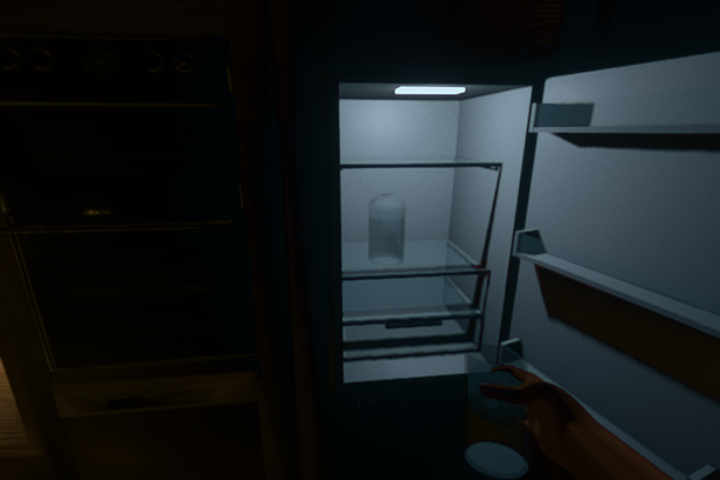
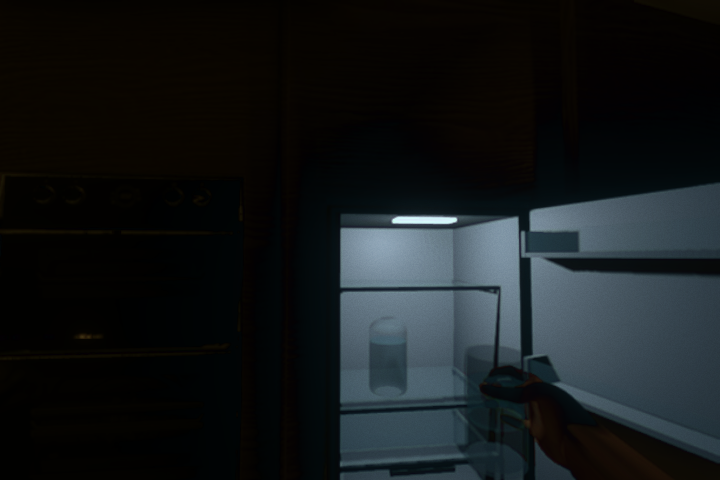
Record verified 0.11 deployment, final framing and hosted captures [skip ci]

diff --git a/docs/REVIEW_11.md b/docs/REVIEW_11.md
@@ -14,9 +14,9 @@ The hand, glass and audio provenance, licenses and preparation are documented in
 
 ## Continuation details
 
-`SceneQuality` applies the initial graphics budget before the first probe capture and follows Graphics changes. Local clustered shadow resolution is governed by the shared atlas, so per-lamp shadow-resolution settings should not be presented as the source of those savings. Directional moon-map resolution is reduced separately on lower presets. High detail can be restored without losing the original light settings.
+`SceneQuality` applies the initial graphics budget before the first probe capture; the backing-buffer budget is also installed when the graphics device is created, before model/hand downloads complete. It follows Graphics changes. Local clustered shadow resolution is governed by the shared atlas, so per-lamp shadow-resolution settings should not be presented as the source of those savings. Directional moon-map resolution is reduced separately on lower presets. High detail can be restored without losing the original light settings.
 
-`DrinkSequence` owns the camera and movement until completion. The main update skips `Player.update` while it runs; start clears keys/velocity and disables interactions synchronously, preventing rapid E/clicks from closing the door mid-reach. Pointer unlock, graphics/pause and document hiding freeze time and stop only the drinking voices. Resume schedules remaining recording offsets without repaying paused time. Reduced motion removes head movement and swallow tremor. Player position and viewing direction are restored at handoff.
+`DrinkSequence` owns the camera and movement until completion. The main update skips `Player.update` while it runs; start clears keys/velocity and disables interactions synchronously, preventing rapid E/clicks from closing the door mid-reach. Pointer unlock, graphics/pause and document hiding freeze time and stop only the drinking voices. Resume schedules remaining recording offsets without repaying paused time. A smooth head lift frames the glass below the eye during the reach and return, including direct or slightly lower initial gaze; the original orientation returns after the hand withdraws. Reduced motion keeps the camera stationary and cuts directly to a supported glass in hand, then directly back to the shelf after sipping. It omits the long reach and swallow tremor. Player position and viewing direction are restored at handoff.
 
 The downloaded Open/Close clip is evaluated with PlayCanvas `AnimEvaluator`/`DefaultAnimBinder`; no additional animation component system is needed. Its palm contact rotates rigidly with the glass. Public `MeshInstance.isVisibleFunc` callbacks keep the hand and carried glass/water out of probe cameras while retaining the real World-layer lights. A custom camera layer alone is insufficient because `captureCube` copies the primary camera layers. Returned shelf glass participates in ordinary rendering again. Refrigerator mesh extraction now compacts referenced vertex streams instead of copying every source vertex into each subset.
 
@@ -24,7 +24,7 @@ The downloaded Open/Close clip is evaluated with PlayCanvas `AnimEvaluator`/`Def
 
 ## Validation and publication
 
-All **88 Node regressions** pass across twelve check files, and all eight room destinations remain reachable. Production build passes. The review workflow now includes scene/rain quality and drinking regressions alongside the previous interaction, lighting, limiter, waking, fridge, coffee, switch and flashlight checks.
+All **90 Node regressions** pass across twelve check files, and all eight room destinations remain reachable. Production build passes. The review workflow now includes scene/rain quality and drinking regressions alongside the previous interaction, lighting, limiter, waking, fridge, coffee, switch and flashlight checks.
 
 Native graphics UI checks passed presets/effects, fresh default 60 FPS and FPS counter, explicit Unlimited/caps, persistence after reload, focus, pointer capture and the 320×480 layout. The real engine tick/cadence check compares accepted callbacks with independently counted RAF supply while temporarily stubbing update/render work. It validates the limiter without presenting software rendering as a GPU performance result.
 
@@ -48,4 +48,8 @@ DRINK_QUALITY=2 python3 tools/check-drink-browser.py http://127.0.0.1:4175/ work
 
 ## Publication
 
-Publication provenance is recorded after deployment verification.
+Published revision: `259e12e6ade8d6ad97fcd6af81be4d2e95e453a4`. [Deployment run 40109659758](https://github.com/starfox22/horror/actions/runs/40109659758) passed. Play **https://starfox22.github.io/horror/codex/?v=0.11-final**. Live build-info matches that preview commit and the unchanged original `main` revision `7b93acb3f34085e078ad32f0c2baae415341e486`. Both site roots load; the hosted hand SHA256 matches the final local asset, and both recordings and the hand license return HTTP 200.
+
+The actual hosted HTTPS WebGPU check passed native E opening and second-E drinking, decoded recorded audio, default 60 FPS cap, visible hand/glass, pause/resume, hidden-tab freeze, mostly empty glass return, restored walking control and native refrigerator closing. No unexpected page, console or HTTP failures occurred. [Hosted result](review-11/validation.json) records the check. A session proxy CA public-key pin was used for the cloud browser; general certificate-error bypass was not enabled.
+
+The `?v=` query refreshes cached HTML; it does not preserve an older build. Documentation-only follow-ups skip CI and do not change this deployed game revision. `main` was neither committed nor pushed.

diff --git a/docs/PREVIEW_DEPLOYMENT.md b/docs/PREVIEW_DEPLOYMENT.md
@@ -10,18 +10,18 @@ Ongoing Codex development and review branch: `codex-review` (Git branch names ca
 | `/horror/codex/` | Codex environment and lighting pass |
 | `/horror/codex/build-info.json` | Full original and preview commit SHAs |
 
-The published preview is **https://starfox22.github.io/horror/codex/**. [Workflow run 40103998454](https://github.com/starfox22/horror/actions/runs/40103998454) deployed build 0.10 successfully. No changes to `main` or repository visibility are required by this workflow. Apartment assets are already committed; neither build regenerates them or downloads the source model.
+The published preview is **https://starfox22.github.io/horror/codex/**. [Workflow run 40109659758](https://github.com/starfox22/horror/actions/runs/40109659758) deployed build 0.11 successfully. No changes to `main` or repository visibility are required by this workflow. Apartment assets are already committed; neither build regenerates them or downloads the source model.
 
 ## Current deployment configuration
 
 The repository is public. GitHub Pages uses **GitHub Actions** as its source. The owner selected **No restriction** for deployment branches in the `github-pages` environment; the previously blocking main-only rule is gone. If restrictions are reintroduced later, they must permit `codex-review` for its preview workflow.
 
-Deployment run **40103998454**, attempt 1, completed successfully. Its published provenance at [`/horror/codex/build-info.json`](https://starfox22.github.io/horror/codex/build-info.json) records:
+Deployment run **40109659758**, attempt 1, completed successfully. Its published provenance at [`/horror/codex/build-info.json`](https://starfox22.github.io/horror/codex/build-info.json) records:
 
-- Preview commit: `7c8af57a2a0e2962483f51fd538184418a7b7410`.
+- Preview commit: `259e12e6ade8d6ad97fcd6af81be4d2e95e453a4`.
 - Original commit: `7b93acb3f34085e078ad32f0c2baae415341e486`.
 
-Both site roots, the preview model/decoders, water jar JSON, local font and hashed JS/CSS return HTTP 200. Local opening, refrigerator and graphics browser checks passed. The final hosted HTTPS WebGPU check passed: loading, natural waking/bedside handoff, graphics/FPS controls, nine fixture defaults and placement, mouse capture, movement, developer lighting off/reset, flashlight pickup/realtime shadows, native coffee pour/completion/replay and native refrigerator opening with final shelf contact. No unexpected page, console or request errors occurred. All-off probes were zero with the sky disabled, and restoration drift was 0.000025. Documentation-only follow-up commits skip CI and do not change this deployed game revision. Future code changes should trigger and verify a new deployment on `codex-review`.
+Both site roots load, and the preview HTML identifies build 0.11. The hosted hand SHA256 matches the final adapted asset; both drinking recordings and the hand license return HTTP 200. All 90 local Node regressions, eight room destinations, graphics UI/persistence, native WebGL drinking and full WebGPU gameplay checks pass. The final hosted HTTPS WebGPU check passed default 60 FPS, native fridge opening/second-E drinking, loaded hand/audio, pause/resume and hidden-tab freeze, glass return, control handoff and native refrigerator closing, with no unexpected page, console or HTTP failures. See [REVIEW_11.md](REVIEW_11.md) and its validation JSON for the precise inspection method. CPU rendering does not establish desktop hardware throughput. Documentation-only follow-ups skip CI and do not change the deployed game revision. Future code changes should trigger and verify a new deployment on `codex-review`.
 
 The agent integration could read deployment status and rerun Actions, but attempts to enable Pages or edit environment branch policies returned HTTP 403. The owner resolved those settings in GitHub. Do not change `main` to work around a future deployment permission failure.
 

diff --git a/README.md b/README.md
@@ -1,8 +1,8 @@
 # horror
 True horror game
 
-A first-person browser horror game in the spirit of P.T., built on PlayCanvas. Current state: **build 0.10 (first waking sequence, refrigerator and lighting review), a walkable
-night-time apartment** (no scares yet): a first-person waking opening, an opening refrigerator with a lit interior and water jar, light switches in every area, lamps with their own switches (bedside, desk, arc lamp), a bathroom door and wardrobe that
+A first-person browser horror game in the spirit of P.T., built on PlayCanvas. Current state: **build 0.11 (performance, waking lights and drinking interaction), a walkable
+night-time apartment** (no scares yet): a first-person waking opening, an opening refrigerator with a lit interior, water jar and visible-hand drinking action, light switches in every area, lamps with their own switches (bedside, desk, arc lamp), a bathroom door and wardrobe that
 open, a laptop, computer and coffee machine to use, a flashlight to find (only its beam is seen), rain gathering and running
 down the windows, lightning and thunder, warm night lighting that fades softly into darkness (bounce light from probes
 around the flat, eye adaptation), post-processing and ambient sound.
@@ -11,12 +11,12 @@ Read `docs/HANDOFF.md` first if you are picking this up (state, owner's preferen
 
 All Codex reviews continue on `codex-review`, while Claude works on its own branch. Codex merges into or pushes to `main` only when the owner explicitly asks. The first review adds a lighting/material pass and interaction fixes. See [the change list and validation guide](docs/CODEX_ENVIRONMENT_PASS.md), [side-by-side screenshots](docs/review/README.md), and [preview deployment instructions](docs/PREVIEW_DEPLOYMENT.md).
 
-The latest pass adds [the waking opening, refrigerator, a saved FPS limit, stronger optional grain and corrected fixture/flashlight shadows](docs/REVIEW_10.md), with [matched comparison screenshots](docs/review-10/README.md). The [previous pass](docs/REVIEW_09.md) documents switch detail, coffee animation, shelf placement and lighting defaults.
+The latest pass adds [a 60 FPS Auto target, lighter graphics budgets, sparse waking lights and a downloaded rigged hand drinking water](docs/REVIEW_11.md), with [comparison screenshots](docs/review-11/README.md). The [0.10 pass](docs/REVIEW_10.md) documents the waking opening, refrigerator and fixture/flashlight shadows; [0.9](docs/REVIEW_09.md) documents switch detail, coffee animation and shelf placement.
 
 ## Play
 
-- Codex review web build: https://starfox22.github.io/horror/codex/
-- claude.ai link (latest build): https://claude.ai/artifact/4wUwgVm7PferEUwiqMeDd9
+- Codex review web build: https://starfox22.github.io/horror/codex/?v=0.11-final
+- Earlier Claude artifact builds: https://claude.ai/artifact/4wUwgVm7PferEUwiqMeDd9
 - Locally: `npm install && npm run dev`, open the printed URL. Click to enter.
 
 Controls: WASD or arrows move · mouse look · Shift walk faster · E use (switches, doors, refrigerator, lamps, laptop, computer, coffee machine) · F flashlight (once found)

diff --git a/docs/HANDOFF.md b/docs/HANDOFF.md
@@ -55,7 +55,8 @@ Read [REVIEW_11.md](REVIEW_11.md) and [DRINK_ASSETS.md](DRINK_ASSETS.md). Auto n
 ## Published builds
 
 `/codex/` serves the latest review. The `?v=` query refreshes cached HTML; it does not preserve older builds. Historical entries below record their deployment commits and captures.
-- Current Codex review 0.10: https://starfox22.github.io/horror/codex/?v=0.10 from `7c8af57a2a0e2962483f51fd538184418a7b7410`; deployment `40103998454` passed and live build-info matches. First waking sequence, refrigerator, FPS limit, grain and physically occluded lighting are documented in REVIEW_10.md.
+- Current Codex review 0.11: https://starfox22.github.io/horror/codex/?v=0.11-final from `259e12e6ade8d6ad97fcd6af81be4d2e95e453a4`; deployment `40109659758` passed and live build-info matches. Auto targets 60, sparse waking lights and downloaded-hand drinking are documented in REVIEW_11.md. All 90 regressions, local WebGL/WebGPU and hosted native drinking checks pass.
+- Codex review 0.10: https://starfox22.github.io/horror/codex/?v=0.10 from `7c8af57a2a0e2962483f51fd538184418a7b7410`; deployment `40103998454` passed and live build-info matches. First waking sequence, refrigerator, FPS limit, grain and physically occluded lighting are documented in REVIEW_10.md.
 - Codex review 0.9: https://starfox22.github.io/horror/codex/?v=0.9 from `f39809820f6f3416f5330bb0fb4a7fae6efffc91`; deployment `40098710673` passed. Graphics/FPS, fixtures, lighting defaults and coffee changes are documented in REVIEW_09.md.
 - Builds 0.1-0.7 (2026-10-22/24): claude.ai artifact https://claude.ai/artifact/4wUwgVm7PferEUwiqMeDd9 (always the
   latest build; private to the owner unless shared from its Share menu).

diff --git a/docs/review-11/README.md b/docs/review-11/README.md
@@ -9,7 +9,7 @@ These are unretouched game renders. Before is the published 0.10 (`7c8af57`); af
 | Bedroom | ![0.10](before/bedroom.png) | ![0.11](after/bedroom.png) |
 | Open refrigerator | ![0.10](before/fridge.png) | ![0.11](after/fridge.png) |
 
-The drinking images use the final build, native E opening followed by a second E from the same view, Medium quality and WebGPU. Animation poses are deliberately frozen at 0.8, 1.8, 2.7 and 4.25 seconds to inspect the reach, lift, grip and sip. CPU SwiftShader throughput is not a desktop hardware benchmark.
+The drinking images use the final hosted build (`259e12e`), native E opening followed by a second E from the same view, Medium quality and WebGPU. Animation poses are deliberately frozen at 0.8, 1.8, 2.7 and 4.25 seconds to inspect the reach, lift, grip and sip. CPU SwiftShader throughput is not a desktop hardware benchmark.
 
 | Reach | Lift |
 | --- | --- |
@@ -18,3 +18,5 @@ The drinking images use the final build, native E opening followed by a second E
 | Raised glass | Sip |
 | --- | --- |
 | ![Raised](drink-raised.png) | ![Sip](drink-sip.png) |
+
+The reach also passes from direct and slightly lower glass aim. Normal motion frames the reach below the eye and restores the original view; reduced motion cuts directly to a supported held glass with a stationary camera.
